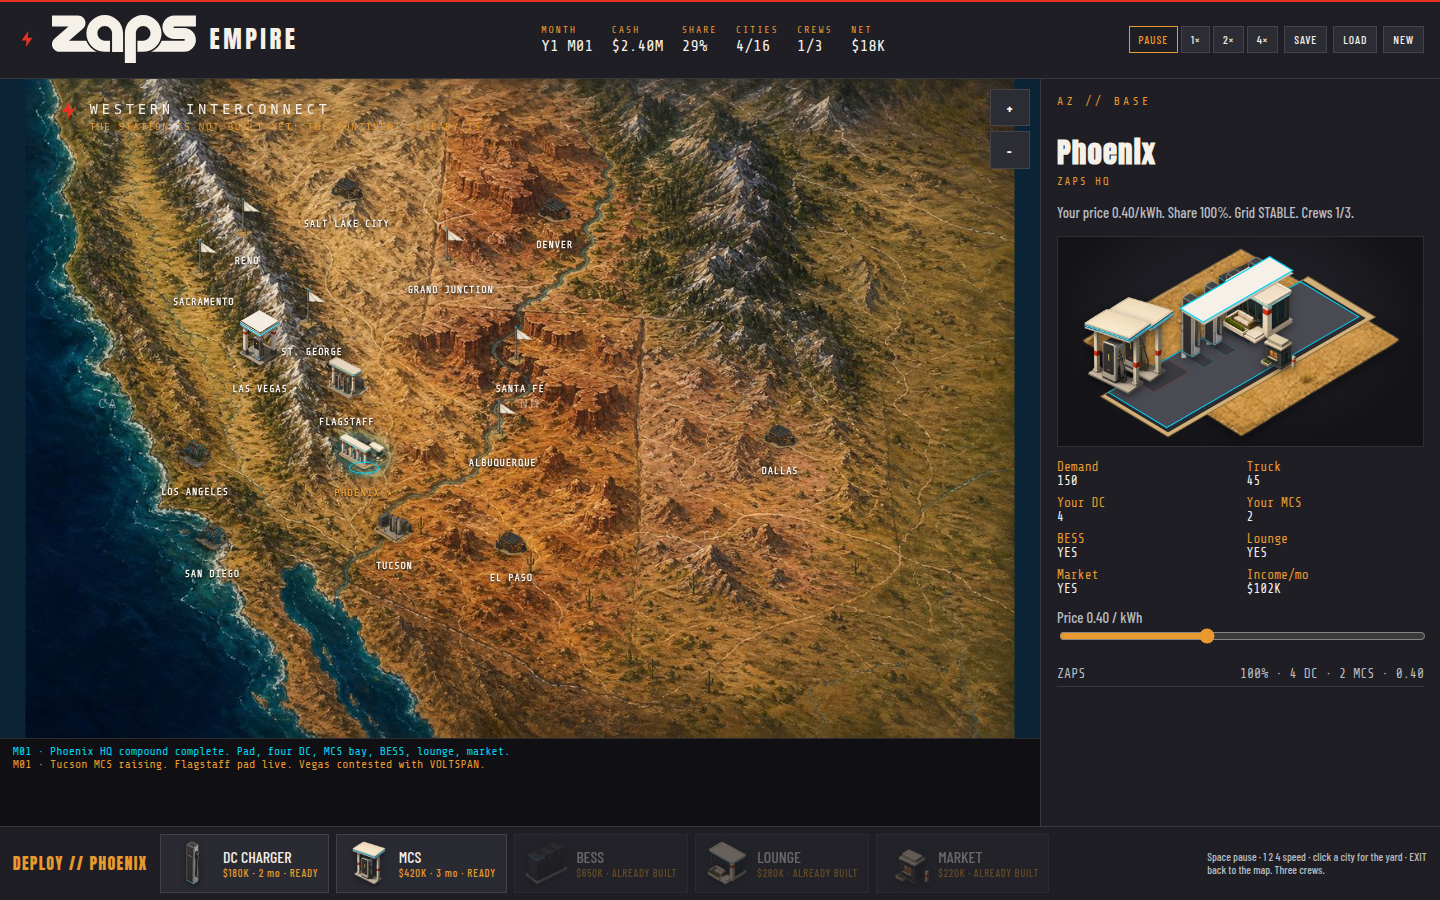
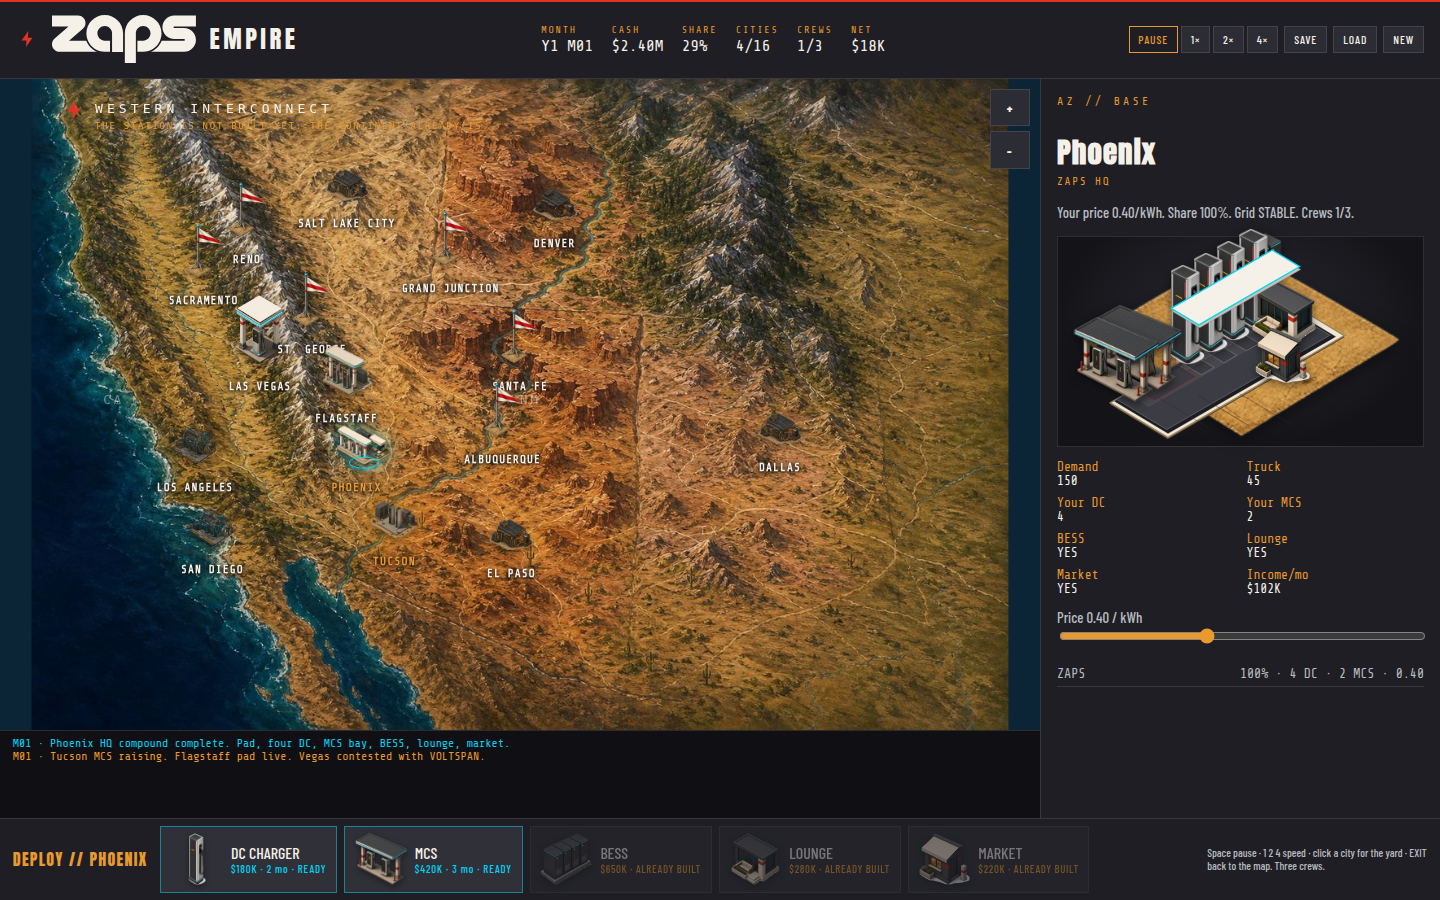
Recapture rts-yard-9 stills; widen DC and brighten curb
Operator review shots at 1440×900. Pedestals read under the shared
canopy; concrete curb lip is lighter against the dirt diamond.

diff --git a/styles.css b/styles.css
@@ -647,15 +647,15 @@ button {
 }
 
 .site-curb-face {
-  fill: #a88854;
-  stroke: #6a502c;
-  stroke-width: 0.28;
+  fill: #6a5840;
+  stroke: #4a3c28;
+  stroke-width: 0.3;
 }
 
 .site-curb {
-  fill: #e0d0a8;
-  stroke: #8a6a3c;
-  stroke-width: 0.45;
+  fill: #efe6d4;
+  stroke: #9a8460;
+  stroke-width: 0.55;
 }
 
 .site-plaza-lift {
@@ -666,8 +666,8 @@ button {
 
 .site-asphalt {
   fill: #3c3c44;
-  stroke: #2a2a32;
-  stroke-width: 0.35;
+  stroke: #5a5a62;
+  stroke-width: 0.4;
 }
 
 .site-asphalt-sheen {

diff --git a/game.js b/game.js
@@ -73,7 +73,7 @@
     neoX: 7.05,
     neoY: -6.3,
     dc0: { x: 33.4, y: 58.6 },
-    dcW: 9.8,
+    dcW: 11.2,
     mcs0: { x: 20.4, y: 72.2 },
     mcsW: 26.6,
     lounge: { x: 63.2, y: 51.0, w: 20.4 },
